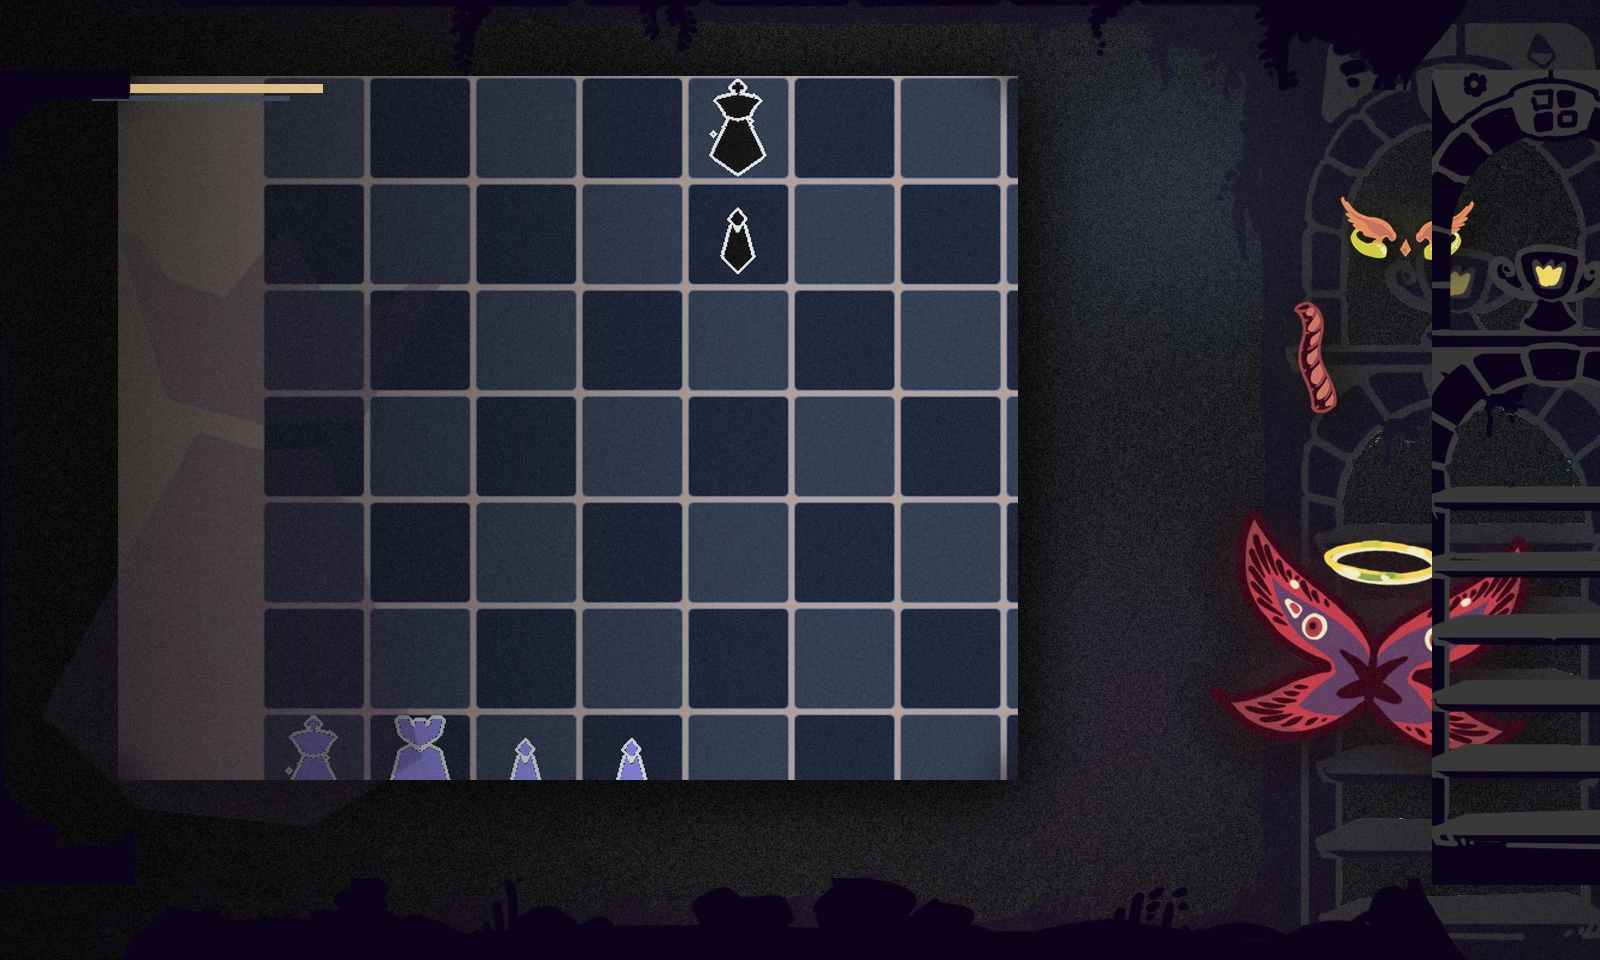
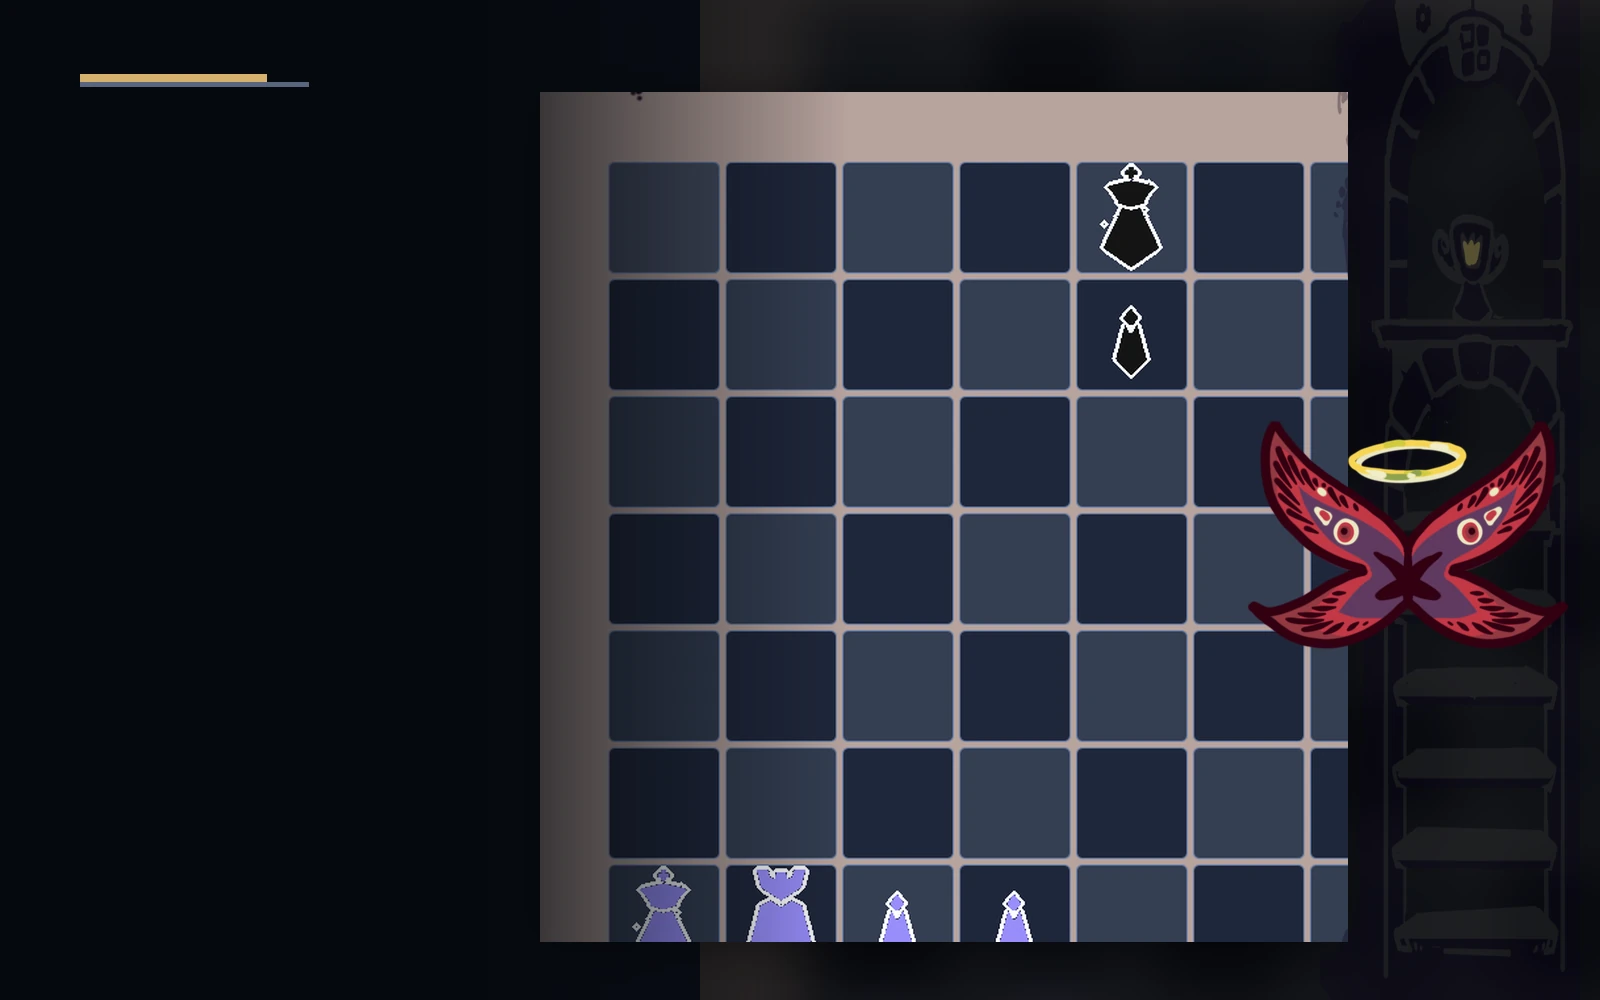
Shift site toward a game-first hero

diff --git a/index.html b/index.html
@@ -81,8 +81,8 @@
         </a>
 
         <nav class="site-nav" aria-label="Primary">
-          <a href="#studio">Studio</a>
           <a href="#game">Game</a>
+          <a href="#studio">Studio</a>
           <a href="#gallery">Gallery</a>
           <a href="#contact">Contact</a>
         </nav>
@@ -100,19 +100,17 @@
           </figure>
 
           <div class="hero-copy">
-            <p class="eyebrow">Independent game studio</p>
-            <h1 class="hero-title">
-              <span>Tab Six</span>
-              <span>Studios</span>
-            </h1>
+            <p class="eyebrow">From Tab Six Studios</p>
+            <h1 class="hero-title">Piecebreaker</h1>
+            <p class="hero-subhead">A chess-inspired roguelike in active development.</p>
             <p class="hero-lede">
-              Tab Six Studios is an independent game studio developing
-              <strong>Piecebreaker</strong>, a chess-inspired roguelike currently
-              in development.
+              Tab Six Studios is building <strong>Piecebreaker</strong> around
+              board-based tactics, route planning, deployment decisions, and
+              post-combat rewards.
             </p>
             <p class="hero-note">
-              A focused studio presence for artists, contractors, collaborators,
-              and professional contacts.
+              A focused public presence for artists, contractors, collaborators,
+              and professional contacts looking for the studio behind the game.
             </p>
 
             <div class="button-row">
@@ -130,36 +128,17 @@
             </div>
 
             <ul class="chip-list" aria-label="Studio highlights">
-              <li>Piecebreaker in development</li>
-              <li>Chess-inspired roguelike</li>
+              <li>Board-based tactics</li>
+              <li>Routes, rewards, and roster-building</li>
               <li>Business and collaboration inquiries welcome</li>
             </ul>
-          </div>
-        </section>
-
-        <section class="section section-panel" id="studio">
-          <div class="section-heading">
-            <p class="eyebrow">Studio</p>
-            <h2>Focused on one game, presented with intent.</h2>
-          </div>
-          <div class="section-body section-two-column">
-            <p>
-              Tab Six Studios is currently centered on Piecebreaker. The goal for
-              this site is simple: provide a clean, credible public presence while
-              the first release is being built.
-            </p>
-            <p>
-              Rather than overstate the studio, the site stays narrow and
-              up-to-date: who we are, what we are making, what the game looks
-              like today, and how to get in touch.
-            </p>
           </div>
         </section>
 
         <section class="section" id="game">
           <div class="section-heading">
             <p class="eyebrow">Piecebreaker</p>
-            <h2>A chess-inspired roguelike in active development.</h2>
+            <h2>Board-based tactics inside a full run structure.</h2>
           </div>
           <div class="section-body game-grid">
             <p class="game-summary">
@@ -184,10 +163,28 @@
               loading="lazy"
             >
             <figcaption>
-              Routing, tactical board states, and buildcraft choices all sit inside
-              the same run structure.
+              Combat, routing, and reward decisions all feed the same run.
             </figcaption>
           </figure>
+        </section>
+
+        <section class="section section-panel" id="studio">
+          <div class="section-heading">
+            <p class="eyebrow">Studio</p>
+            <h2>A small studio with one clear focus.</h2>
+          </div>
+          <div class="section-body section-two-column">
+            <p>
+              Tab Six Studios is currently centered on Piecebreaker. The goal for
+              this site is simple: provide a clean, credible public presence while
+              the first release is being built.
+            </p>
+            <p>
+              Rather than overstate the studio, the site stays narrow and
+              up-to-date: who we are, what we are making, what the game looks
+              like today, and how to get in touch.
+            </p>
+          </div>
         </section>
 
         <section class="section section-panel" id="gallery">
@@ -211,11 +208,11 @@
               <img
                 src="assets/images/gallery-battle-tension.webp"
                 alt="Curated Piecebreaker battle image focused on a tense board state"
-                width="1440"
-                height="900"
-                loading="lazy"
-              >
-              <figcaption>Tense board states with positional pressure at a glance.</figcaption>
+              width="1440"
+              height="900"
+              loading="lazy"
+            >
+              <figcaption>Live encounter surfaces where distance, tempo, and commitment matter.</figcaption>
             </figure>
 
             <figure class="gallery-card">

diff --git a/styles.css b/styles.css
@@ -232,18 +232,18 @@ h3,
   inset: 0;
   z-index: 0;
   background:
-    linear-gradient(90deg, rgba(7, 11, 18, 0.92) 0%, rgba(7, 11, 18, 0.78) 28%, rgba(7, 11, 18, 0.28) 56%, rgba(7, 11, 18, 0.72) 100%),
+    linear-gradient(90deg, rgba(7, 11, 18, 0.92) 0%, rgba(7, 11, 18, 0.74) 30%, rgba(7, 11, 18, 0.22) 58%, rgba(7, 11, 18, 0.66) 100%),
     linear-gradient(180deg, rgba(7, 11, 18, 0.18), rgba(7, 11, 18, 0.58));
 }
 
 .hero-copy {
   position: relative;
   z-index: 2;
-  max-width: 39rem;
+  max-width: 32rem;
 }
 
-.hero-title span {
-  display: block;
+.hero-title {
+  letter-spacing: 0.02em;
 }
 
 .hero-poster {
@@ -291,6 +291,7 @@ h3 {
 }
 
 .hero-lede,
+.hero-subhead,
 .hero-note,
 .section-body p,
 .game-summary,
@@ -300,13 +301,21 @@ h3 {
 }
 
 .hero-lede {
-  margin: 1.35rem 0 0;
-  font-size: 1.32rem;
+  margin: 1.2rem 0 0;
+  font-size: 1.16rem;
+}
+
+.hero-subhead {
+  margin: 0.95rem 0 0;
+  max-width: 23rem;
+  color: var(--text);
+  font-size: clamp(1.35rem, 2.8vw, 2rem);
+  line-height: 1.2;
 }
 
 .hero-note {
   margin: 1rem 0 0;
-  max-width: 34rem;
+  max-width: 30rem;
 }
 
 .button-row {
@@ -599,7 +608,7 @@ h3 {
   }
 
   .hero-copy {
-    max-width: none;
+    max-width: 32rem;
   }
 }
 
@@ -637,17 +646,22 @@ h3 {
   }
 
   .hero-title {
-    font-size: clamp(2.7rem, 15vw, 4.25rem);
+    font-size: clamp(2.35rem, 10.5vw, 3.9rem);
     line-height: 0.94;
   }
 
+  .hero-subhead {
+    font-size: 1.2rem;
+    max-width: 16rem;
+  }
+
   .hero-lede {
-    font-size: 1.1rem;
+    font-size: 1rem;
   }
 
   .section-panel-hero::after {
     background:
-      linear-gradient(180deg, rgba(7, 11, 18, 0.58) 0%, rgba(7, 11, 18, 0.46) 34%, rgba(7, 11, 18, 0.9) 100%),
+      linear-gradient(180deg, rgba(7, 11, 18, 0.52) 0%, rgba(7, 11, 18, 0.42) 34%, rgba(7, 11, 18, 0.9) 100%),
       linear-gradient(180deg, rgba(7, 11, 18, 0.12), rgba(7, 11, 18, 0.54));
   }
 

diff --git a/README.md b/README.md
@@ -179,6 +179,8 @@ Notes:
   it feels specific to Piecebreaker instead of generic studio boilerplate
 - Large typography and generous spacing make the studio feel deliberate and
   professional without sounding inflated
+- The hero now leads with `Piecebreaker` instead of the studio name so visitors
+  remember the game first while the studio still reads as credible support
 - The top of the page now uses a single poster-style composite so the first
   impression feels intentional rather than like a stack of dev captures
 - Curated composites mix truthful current-build imagery with real in-game art so
@@ -193,6 +195,9 @@ Notes:
   present in the game repo
 - The hero poster and systems-proof image are rebuilt from fresh current-build
   captures plus the game's shared frame language and selected item/trinket art
+- The battle still was rebuilt as a truer gameplay-led screen crop so the
+  gallery keeps at least one image that reads like live play rather than promo
+  collage
 - The gallery intentionally mixes editorial gameplay crops with one art-led
   composite so the page can show both mechanics and visual identity
 - Outdated Steam storefront assets and anything with the old project branding
